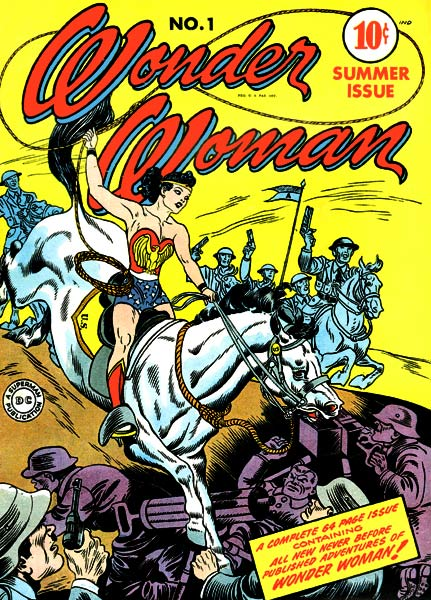
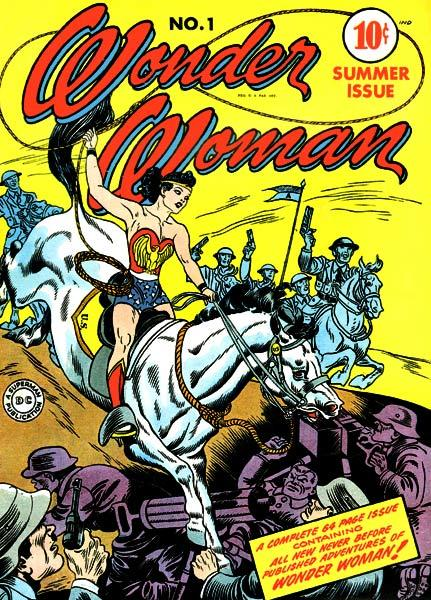
WonderWoman

diff --git a/kb/Creation/WonderWoman/WonderWoman.html b/kb/Creation/WonderWoman/WonderWoman.html
@@ -1,0 +1,39 @@
+<!DOCTYPE html>
+<html>
+<head>
+<meta charset="utf-8">
+<link rel="stylesheet" href="../../../ZimStyles.css">
+<title>Wonder Woman</title>
+</head>
+
+<body>
+<h2>Wonder Woman</h2>
+<img src="WonderWoman001.jpg"> <br>
+Writer: William Moulton Marston<br>
+Illustrator: Harry G. Peter<br>
+Series: on-going<br>
+Publisher: 1941 DC<br>
+<p>
+Wonder Woman is a fictional superhero appearing in American comic books published by DC Comics. The character is a founding member of the Justice League, goddess, and Ambassador-at-Large of the Amazon people. The character first appeared in All Star Comics #8 in October 1941 and first cover-dated on Sensation Comics #1, January 1942. In her homeland, the island nation of Themyscira, her official title is Princess Diana of Themyscira, Daughter of Hippolyta. When blending into the society outside of her homeland, she adopts her civilian identity Diana Prince. The character is also referred to by such epithets as the "Amazing Amazon", the "Spirit of Truth", "Themyscira's Champion", the "God-killer", and the "Goddess of Love and War".
+</p><p>
+Wonder Woman was created by the American psychologist and writer William Moulton Marston (pen name: Charles Moulton), and artist Harry G. Peter. Olive Byrne, Marston's lover, and his wife, Elizabeth, are credited as being his inspiration for the character's appearance. Marston drew a great deal of inspiration from early feminists, and especially from birth control pioneer Margaret Sanger; in particular, her piece "Woman and the New Race". The character first appeared in All Star Comics #8 in October 1941 and first cover-dated on Sensation Comics #1, January 1942. The Wonder Woman title has been published by DC Comics almost continuously except for a brief hiatus in 1986.
+</p><p>
+Wonder Woman's origin story relates that she was sculpted from clay by her mother Queen Hippolyta and given life by Aphrodite, along with superhuman powers as gifts by the Greek gods. In recent years, DC changed her background with the revelation that she is the daughter of Zeus and Hippolyta, jointly raised by her mother and her aunts Antiope and Menalippe. In the 1980s artist George Perez gave her a muscular look and emphasized her Amazonian heritage. Wonder Woman's Amazonian training helped to develop a wide range of extraordinary skills in tactics, hunting, and combat. She possesses an arsenal of advanced technology, including the Lasso of Truth, a pair of indestructible bracelets, a tiara which serves as a projectile, and, in older stories, a range of devices based on Amazon technology. 
+</p><p>
+Wonder Woman's character was created during World War II; the character in the story was initially depicted fighting Axis military forces as well as an assortment of colorful super villains, although over time her stories came to place greater emphasis on characters, deities, and monsters from Greek mythology. Many stories depicted Wonder Woman rescuing herself from bondage, which defeated the "damsels in distress" trope that was common in comics during the 1940s. In the decades since her debut, Wonder Woman has gained a cast of enemies bent on eliminating the Amazon, including classic villains such as Ares, Cheetah, Doctor Poison, Circe, Doctor Psycho, and Giganta, along with more recent adversaries such as Veronica Cale and the First Born. Wonder Woman has also regularly appeared in comic books featuring the superhero teams Justice Society (from 1941) and Justice League (from 1960).
+</p>
+Issues:<ul>
+<li><a href="WonderWoman.html">Wonder Woman #1</a></li>
+<li><a href="WonderWoman2.html">Wonder Woman #2</a></li>
+<li><a href="WonderWoman3.html">Wonder Woman #3</a></li>
+<li><a href="WonderWoman4.html">Wonder Woman #4</a></li>
+<li><a href="WonderWoman5.html">Wonder Woman #5</a></li>
+<li><a href="WonderWoman6.html">Wonder Woman #6</a></li>
+<li><a href="WonderWoman7.html">Wonder Woman #7</a></li>
+<li><a href="WonderWoman8.html">Wonder Woman #8</a></li>
+<li><a href="WonderWoman9.html">Wonder Woman #9</a></li>
+<li><a href="WonderWoman10.html">Wonder Woman #10</a></li>
+</ul>
+
+</body>
+</html>

diff --git a/kb/Creation/WonderWoman/WonderWoman10.html b/kb/Creation/WonderWoman/WonderWoman10.html
@@ -1,0 +1,28 @@
+<!DOCTYPE html>
+<html>
+<head>
+<meta charset="utf-8">
+<link rel="stylesheet" href="../../../ZimStyles.css">
+<title>Wonder Woman</title>
+</head>
+
+<body>
+<h2>Wonder Woman</h2>
+<img src="WonderWoman010.jpg"> <br>
+<p>
+</p>
+Issues:<ul>
+<li><a href="WonderWoman.html">Wonder Woman #1</a></li>
+<li><a href="WonderWoman2.html">Wonder Woman #2</a></li>
+<li><a href="WonderWoman3.html">Wonder Woman #3</a></li>
+<li><a href="WonderWoman4.html">Wonder Woman #4</a></li>
+<li><a href="WonderWoman5.html">Wonder Woman #5</a></li>
+<li><a href="WonderWoman6.html">Wonder Woman #6</a></li>
+<li><a href="WonderWoman7.html">Wonder Woman #7</a></li>
+<li><a href="WonderWoman8.html">Wonder Woman #8</a></li>
+<li><a href="WonderWoman9.html">Wonder Woman #9</a></li>
+<li><a href="WonderWoman10.html">Wonder Woman #10</a></li>
+</ul>
+
+</body>
+</html>

diff --git a/kb/Creation/WonderWoman/WonderWoman2.html b/kb/Creation/WonderWoman/WonderWoman2.html
@@ -1,0 +1,28 @@
+<!DOCTYPE html>
+<html>
+<head>
+<meta charset="utf-8">
+<link rel="stylesheet" href="../../../ZimStyles.css">
+<title>Wonder Woman</title>
+</head>
+
+<body>
+<h2>Wonder Woman</h2>
+<img src="WonderWoman002.jpg"> <br>
+<p>
+</p>
+Issues:<ul>
+<li><a href="WonderWoman.html">Wonder Woman #1</a></li>
+<li><a href="WonderWoman2.html">Wonder Woman #2</a></li>
+<li><a href="WonderWoman3.html">Wonder Woman #3</a></li>
+<li><a href="WonderWoman4.html">Wonder Woman #4</a></li>
+<li><a href="WonderWoman5.html">Wonder Woman #5</a></li>
+<li><a href="WonderWoman6.html">Wonder Woman #6</a></li>
+<li><a href="WonderWoman7.html">Wonder Woman #7</a></li>
+<li><a href="WonderWoman8.html">Wonder Woman #8</a></li>
+<li><a href="WonderWoman9.html">Wonder Woman #9</a></li>
+<li><a href="WonderWoman10.html">Wonder Woman #10</a></li>
+</ul>
+
+</body>
+</html>

diff --git a/kb/Creation/WonderWoman/WonderWoman3.html b/kb/Creation/WonderWoman/WonderWoman3.html
@@ -1,0 +1,28 @@
+<!DOCTYPE html>
+<html>
+<head>
+<meta charset="utf-8">
+<link rel="stylesheet" href="../../../ZimStyles.css">
+<title>Wonder Woman</title>
+</head>
+
+<body>
+<h2>Wonder Woman</h2>
+<img src="WonderWoman003.jpg"> <br>
+<p>
+</p>
+Issues:<ul>
+<li><a href="WonderWoman.html">Wonder Woman #1</a></li>
+<li><a href="WonderWoman2.html">Wonder Woman #2</a></li>
+<li><a href="WonderWoman3.html">Wonder Woman #3</a></li>
+<li><a href="WonderWoman4.html">Wonder Woman #4</a></li>
+<li><a href="WonderWoman5.html">Wonder Woman #5</a></li>
+<li><a href="WonderWoman6.html">Wonder Woman #6</a></li>
+<li><a href="WonderWoman7.html">Wonder Woman #7</a></li>
+<li><a href="WonderWoman8.html">Wonder Woman #8</a></li>
+<li><a href="WonderWoman9.html">Wonder Woman #9</a></li>
+<li><a href="WonderWoman10.html">Wonder Woman #10</a></li>
+</ul>
+
+</body>
+</html>

diff --git a/kb/Creation/WonderWoman/WonderWoman4.html b/kb/Creation/WonderWoman/WonderWoman4.html
@@ -1,0 +1,28 @@
+<!DOCTYPE html>
+<html>
+<head>
+<meta charset="utf-8">
+<link rel="stylesheet" href="../../../ZimStyles.css">
+<title>Wonder Woman</title>
+</head>
+
+<body>
+<h2>Wonder Woman</h2>
+<img src="WonderWoman004.jpg"> <br>
+<p>
+</p>
+Issues:<ul>
+<li><a href="WonderWoman.html">Wonder Woman #1</a></li>
+<li><a href="WonderWoman2.html">Wonder Woman #2</a></li>
+<li><a href="WonderWoman3.html">Wonder Woman #3</a></li>
+<li><a href="WonderWoman4.html">Wonder Woman #4</a></li>
+<li><a href="WonderWoman5.html">Wonder Woman #5</a></li>
+<li><a href="WonderWoman6.html">Wonder Woman #6</a></li>
+<li><a href="WonderWoman7.html">Wonder Woman #7</a></li>
+<li><a href="WonderWoman8.html">Wonder Woman #8</a></li>
+<li><a href="WonderWoman9.html">Wonder Woman #9</a></li>
+<li><a href="WonderWoman10.html">Wonder Woman #10</a></li>
+</ul>
+
+</body>
+</html>

diff --git a/kb/Creation/WonderWoman/WonderWoman5.html b/kb/Creation/WonderWoman/WonderWoman5.html
@@ -1,0 +1,28 @@
+<!DOCTYPE html>
+<html>
+<head>
+<meta charset="utf-8">
+<link rel="stylesheet" href="../../../ZimStyles.css">
+<title>Wonder Woman</title>
+</head>
+
+<body>
+<h2>Wonder Woman</h2>
+<img src="WonderWoman005.jpg"> <br>
+<p>
+</p>
+Issues:<ul>
+<li><a href="WonderWoman.html">Wonder Woman #1</a></li>
+<li><a href="WonderWoman2.html">Wonder Woman #2</a></li>
+<li><a href="WonderWoman3.html">Wonder Woman #3</a></li>
+<li><a href="WonderWoman4.html">Wonder Woman #4</a></li>
+<li><a href="WonderWoman5.html">Wonder Woman #5</a></li>
+<li><a href="WonderWoman6.html">Wonder Woman #6</a></li>
+<li><a href="WonderWoman7.html">Wonder Woman #7</a></li>
+<li><a href="WonderWoman8.html">Wonder Woman #8</a></li>
+<li><a href="WonderWoman9.html">Wonder Woman #9</a></li>
+<li><a href="WonderWoman10.html">Wonder Woman #10</a></li>
+</ul>
+
+</body>
+</html>

diff --git a/kb/Creation/WonderWoman/WonderWoman6.html b/kb/Creation/WonderWoman/WonderWoman6.html
@@ -1,0 +1,28 @@
+<!DOCTYPE html>
+<html>
+<head>
+<meta charset="utf-8">
+<link rel="stylesheet" href="../../../ZimStyles.css">
+<title>Wonder Woman</title>
+</head>
+
+<body>
+<h2>Wonder Woman</h2>
+<img src="WonderWoman006.jpg"> <br>
+<p>
+</p>
+Issues:<ul>
+<li><a href="WonderWoman.html">Wonder Woman #1</a></li>
+<li><a href="WonderWoman2.html">Wonder Woman #2</a></li>
+<li><a href="WonderWoman3.html">Wonder Woman #3</a></li>
+<li><a href="WonderWoman4.html">Wonder Woman #4</a></li>
+<li><a href="WonderWoman5.html">Wonder Woman #5</a></li>
+<li><a href="WonderWoman6.html">Wonder Woman #6</a></li>
+<li><a href="WonderWoman7.html">Wonder Woman #7</a></li>
+<li><a href="WonderWoman8.html">Wonder Woman #8</a></li>
+<li><a href="WonderWoman9.html">Wonder Woman #9</a></li>
+<li><a href="WonderWoman10.html">Wonder Woman #10</a></li>
+</ul>
+
+</body>
+</html>

diff --git a/kb/Creation/WonderWoman/WonderWoman7.html b/kb/Creation/WonderWoman/WonderWoman7.html
@@ -1,0 +1,28 @@
+<!DOCTYPE html>
+<html>
+<head>
+<meta charset="utf-8">
+<link rel="stylesheet" href="../../../ZimStyles.css">
+<title>Wonder Woman</title>
+</head>
+
+<body>
+<h2>Wonder Woman</h2>
+<img src="WonderWoman007.jpg"> <br>
+<p>
+</p>
+Issues:<ul>
+<li><a href="WonderWoman.html">Wonder Woman #1</a></li>
+<li><a href="WonderWoman2.html">Wonder Woman #2</a></li>
+<li><a href="WonderWoman3.html">Wonder Woman #3</a></li>
+<li><a href="WonderWoman4.html">Wonder Woman #4</a></li>
+<li><a href="WonderWoman5.html">Wonder Woman #5</a></li>
+<li><a href="WonderWoman6.html">Wonder Woman #6</a></li>
+<li><a href="WonderWoman7.html">Wonder Woman #7</a></li>
+<li><a href="WonderWoman8.html">Wonder Woman #8</a></li>
+<li><a href="WonderWoman9.html">Wonder Woman #9</a></li>
+<li><a href="WonderWoman10.html">Wonder Woman #10</a></li>
+</ul>
+
+</body>
+</html>

diff --git a/kb/Creation/WonderWoman/WonderWoman8.html b/kb/Creation/WonderWoman/WonderWoman8.html
@@ -1,0 +1,28 @@
+<!DOCTYPE html>
+<html>
+<head>
+<meta charset="utf-8">
+<link rel="stylesheet" href="../../../ZimStyles.css">
+<title>Wonder Woman</title>
+</head>
+
+<body>
+<h2>Wonder Woman</h2>
+<img src="WonderWoman008.jpg"> <br>
+<p>
+</p>
+Issues:<ul>
+<li><a href="WonderWoman.html">Wonder Woman #1</a></li>
+<li><a href="WonderWoman2.html">Wonder Woman #2</a></li>
+<li><a href="WonderWoman3.html">Wonder Woman #3</a></li>
+<li><a href="WonderWoman4.html">Wonder Woman #4</a></li>
+<li><a href="WonderWoman5.html">Wonder Woman #5</a></li>
+<li><a href="WonderWoman6.html">Wonder Woman #6</a></li>
+<li><a href="WonderWoman7.html">Wonder Woman #7</a></li>
+<li><a href="WonderWoman8.html">Wonder Woman #8</a></li>
+<li><a href="WonderWoman9.html">Wonder Woman #9</a></li>
+<li><a href="WonderWoman10.html">Wonder Woman #10</a></li>
+</ul>
+
+</body>
+</html>

diff --git a/kb/Creation/WonderWoman/WonderWoman9.html b/kb/Creation/WonderWoman/WonderWoman9.html
@@ -1,0 +1,28 @@
+<!DOCTYPE html>
+<html>
+<head>
+<meta charset="utf-8">
+<link rel="stylesheet" href="../../../ZimStyles.css">
+<title>Wonder Woman</title>
+</head>
+
+<body>
+<h2>Wonder Woman</h2>
+<img src="WonderWoman009.jpg"> <br>
+<p>
+</p>
+Issues:<ul>
+<li><a href="WonderWoman.html">Wonder Woman #1</a></li>
+<li><a href="WonderWoman2.html">Wonder Woman #2</a></li>
+<li><a href="WonderWoman3.html">Wonder Woman #3</a></li>
+<li><a href="WonderWoman4.html">Wonder Woman #4</a></li>
+<li><a href="WonderWoman5.html">Wonder Woman #5</a></li>
+<li><a href="WonderWoman6.html">Wonder Woman #6</a></li>
+<li><a href="WonderWoman7.html">Wonder Woman #7</a></li>
+<li><a href="WonderWoman8.html">Wonder Woman #8</a></li>
+<li><a href="WonderWoman9.html">Wonder Woman #9</a></li>
+<li><a href="WonderWoman10.html">Wonder Woman #10</a></li>
+</ul>
+
+</body>
+</html>

diff --git a/kb/kb.html b/kb/kb.html
@@ -1922,7 +1922,7 @@ Wonder Duck #1–3 (1949-1950)	Marvel<br>
 Wonder Man #1 (1986 one-shot)	Marvel<br>
 Wonder Man vol. 2, #1–29, Annual #1–2	Marvel<br>
 Wonder Man vol. 3, #1–5 (2007)	Marvel<br>
-Wonder Woman	DC<br>
+<a href="Creation/WonderWoman/WonderWoman.html">Wonder Woman</a> DC<br>
 World Below	Dark Horse<br>
 World Below: Deeper and Stranger	Dark Horse<br>
 World of Fantasy #1–19 (May 1956 - August 1959)	Marvel<br>
